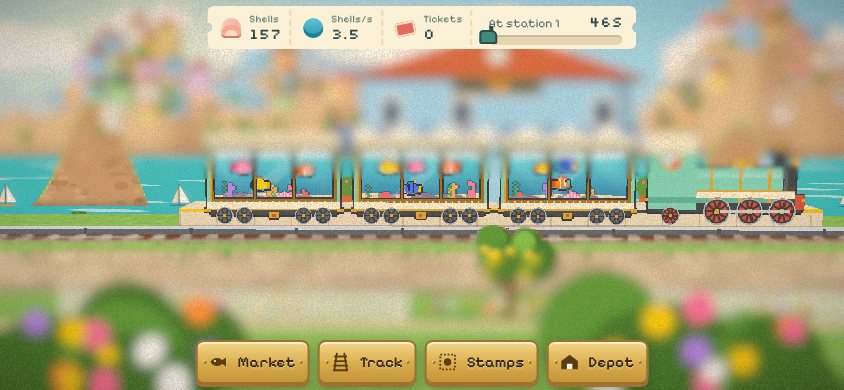
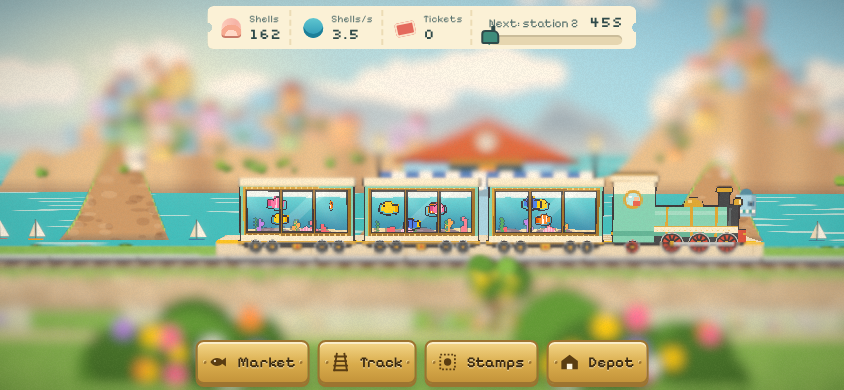
wip: snapshot of in-flight tickets (T-01, T-06, T-09, T-10, T-12); vercel ignore step

diff --git a/src/render/post/post.ts b/src/render/post/post.ts
@@ -30,11 +30,11 @@ export class Post {
   ) {
     this.composer = new EffectComposer(renderer, { frameBufferType: THREE.HalfFloatType });
     this.composer.addPass(new RenderPass(scene, camera));
-    this.tilt = new TiltShiftEffect({ focusArea: 0.34, feather: 0.2, offset: -0.06, kernelSize: KernelSize.LARGE });
+    this.tilt = new TiltShiftEffect({ focusArea: 0.48, feather: 0.3, offset: -0.12, kernelSize: KernelSize.MEDIUM });
     this.bloom = new BloomEffect({ intensity: 0.55, luminanceThreshold: 0.78, luminanceSmoothing: 0.25, mipmapBlur: true, radius: 0.7 });
     const vignette = new VignetteEffect({ offset: 0.32, darkness: 0.42 });
     this.noise = new NoiseEffect({ blendFunction: BlendFunction.SOFT_LIGHT, premultiply: false });
-    this.noise.blendMode.opacity.value = 0.22;
+    this.noise.blendMode.opacity.value = 0.08;
     this.composer.addPass(new EffectPass(camera, this.tilt));
     this.composer.addPass(new EffectPass(camera, this.bloom, this.grade, vignette, this.noise));
     this.setTimeOfDay(0.3);
@@ -49,9 +49,9 @@ export class Post {
     this.quality = q;
     const high = q === 'high';
     this.renderer.setPixelRatio(high ? Math.min(window.devicePixelRatio, 2) : 1);
-    this.tilt.blurPass.kernelSize = high ? KernelSize.LARGE : KernelSize.SMALL;
+    this.tilt.blurPass.kernelSize = high ? KernelSize.MEDIUM : KernelSize.SMALL;
     this.bloom.blendMode.opacity.value = high ? 1 : 0;
-    this.noise.blendMode.opacity.value = high ? 0.22 : 0;
+    this.noise.blendMode.opacity.value = high ? 0.08 : 0;
   }
 
   setSize(w: number, h: number): void {

diff --git a/src/render/diorama/paintMid.ts b/src/render/diorama/paintMid.ts
@@ -177,9 +177,10 @@ export function paintMidNear(seed: number): HTMLCanvasElement {
   const { ctx, w, h } = p;
   const r = rng(seed);
   const raw = profile(seed, w, [[3, 1], [5, 0.5], [11, 0.2]]);
-  const f = (x: number) => Math.max(0, (raw(x) - 0.55) / 0.45);
+  // rounded islet humps: sqrt gives domed tops instead of pointy peaks
+  const f = (x: number) => Math.sqrt(Math.max(0, (raw(x) - 0.58) / 0.42));
   const base = h - 4;
-  const amp = 230;
+  const amp = 120;
   // rocks: darker, warmer stone
   ctx.fillStyle = SUNNY.cliffShade;
   ctx.beginPath();
@@ -210,12 +211,12 @@ export function paintMidNear(seed: number): HTMLCanvasElement {
     ctx.fillRect(x, t - 2, 3, 6 + ((x * 7) % 5));
   }
   // houses on top of the larger islets
-  for (let x = 40; x < w - 80; x += 90 + r() * 120) {
-    if (f(x) < 0.5) continue;
-    const t = base - f(x + 30) * amp;
-    const hw = 40 + r() * 30;
-    house(ctx, r, x, t + 6, hw, 34 + r() * 22, 1.8);
-    bush(ctx, r, x - 6, t + 6, 12, r() < 0.6);
+  for (let x = 40; x < w - 80; x += 60 + r() * 70) {
+    const hw = 34 + r() * 26;
+    if (f(x) < 0.45 || f(x + hw) < 0.45) continue;
+    const t = base - Math.min(f(x), f(x + hw)) * amp;
+    house(ctx, r, x, t + 8, hw, 30 + r() * 20, 1.8);
+    bush(ctx, r, x - 6, t + 8, 12, r() < 0.6);
   }
   // little sailboats in the gaps
   for (let x = 30; x < w - 30; x += 70 + r() * 140) {

diff --git a/scripts/shots.ts b/scripts/shots.ts
@@ -9,7 +9,22 @@ import { createRequire } from 'node:module';
 
 const require = createRequire(import.meta.url);
 // Playwright is installed globally in this environment (see CLAUDE.md).
-function loadPlaywright(): typeof import('playwright') {
+interface PwPage {
+  on(ev: 'console', fn: (m: { type(): string; text(): string }) => void): void;
+  on(ev: 'pageerror', fn: (e: Error) => void): void;
+  goto(url: string, o: { waitUntil: 'load' }): Promise<unknown>;
+  waitForTimeout(ms: number): Promise<void>;
+  screenshot(o: { path: string }): Promise<unknown>;
+  close(): Promise<void>;
+}
+interface PwBrowser {
+  newPage(o: { viewport: { width: number; height: number }; deviceScaleFactor: number }): Promise<PwPage>;
+  close(): Promise<void>;
+}
+interface Pw {
+  chromium: { launch(o?: { args?: string[] }): Promise<PwBrowser> };
+}
+function loadPlaywright(): Pw {
   try {
     return require('playwright');
   } catch {

diff --git a/src/render/diorama/config.ts b/src/render/diorama/config.ts
@@ -5,9 +5,9 @@
 export const WORLD = {
   fov: 22,
   /** Camera distance and height relative to the train's focus point. */
-  camDist: 19.5,
-  camTiltDeg: 6,
-  focusY: 0.75,
+  camDist: 23,
+  camTiltDeg: 4,
+  focusY: 1.55,
   seaY: -2.5,
   groundY: 0,
   nearGroundY: -0.9,
@@ -26,7 +26,7 @@ export const LAYER_Z = {
   midFar: -60,
   midNear: -26,
   verge: -3.1,
-  station: -2.0,
+  station: -2.3,
   track: 0,
   near: 3.6,
   nearFront: 7.5,

diff --git a/src/render/diorama/paintStation.ts b/src/render/diorama/paintStation.ts
@@ -2,7 +2,7 @@ import { makeCanvas, rng, pick, shade } from '../paint/canvas';
 import { SUNNY } from '../paint/palette';
 import { PX } from './paintTrack';
 
-export const STATION_BUILDING = { w: 8, h: 4 } as const;
+export const STATION_BUILDING = { w: 6.4, h: 3.2 } as const;
 
 function person(ctx: CanvasRenderingContext2D, x: number, base: number, coat: string, hat: string): void {
   ctx.fillStyle = '#3c3a46';

diff --git a/src/render/diorama/paintNear.ts b/src/render/diorama/paintNear.ts
@@ -77,7 +77,7 @@ export function paintNear(seed: number, variant: number): HTMLCanvasElement {
   flowers(p, r, 100, base, 14, 120);
   flowers(p, r, 420, base, 14, 90);
   if (variant === 0) {
-    lemonTree(p, r, 250, base, 22);
+    lemonTree(p, r, 250, base, 16);
   } else {
     // telegraph pole with wire stubs
     ctx.fillStyle = SUNNY.woodDark;

diff --git a/pm/DECISIONS.md b/pm/DECISIONS.md
@@ -19,3 +19,4 @@
 - **D-017** Session stop-hook requires no untracked files. While tickets run in parallel, PM pushes `wip:` snapshot commits of in-flight files (safe: no deploy is connected yet; each ticket still gets its own `feat:` acceptance commit after the gates). Once Vercel is connected, WIP snapshots stop and only gated commits land.
 - **D-018** T-05 interpretations accepted (src/sim/README.md) except: community +100% output applies to the **three member fish only** (spec: "three specific species … get +100%"); fixed in T-06. Fishmonger discounts purchases (not level-ups) — accepted.
 - **D-019** Producer imported the repo into Vercel (project son-1202/coral-express). Deploy status is read from GitHub commit statuses (context "Vercel"). WIP snapshot commits stop now (D-017 superseded): only gated commits land on main.
+- **D-020** `vercel.json` `ignoreCommand` skips Vercel builds for commits whose subject starts with `wip` or `chore(pm)` (exit 0 = skip). WIP snapshots (required by the session stop-hook) and PM bookkeeping never replace the live build; only gated `feat/fix/art/audio` commits deploy.
